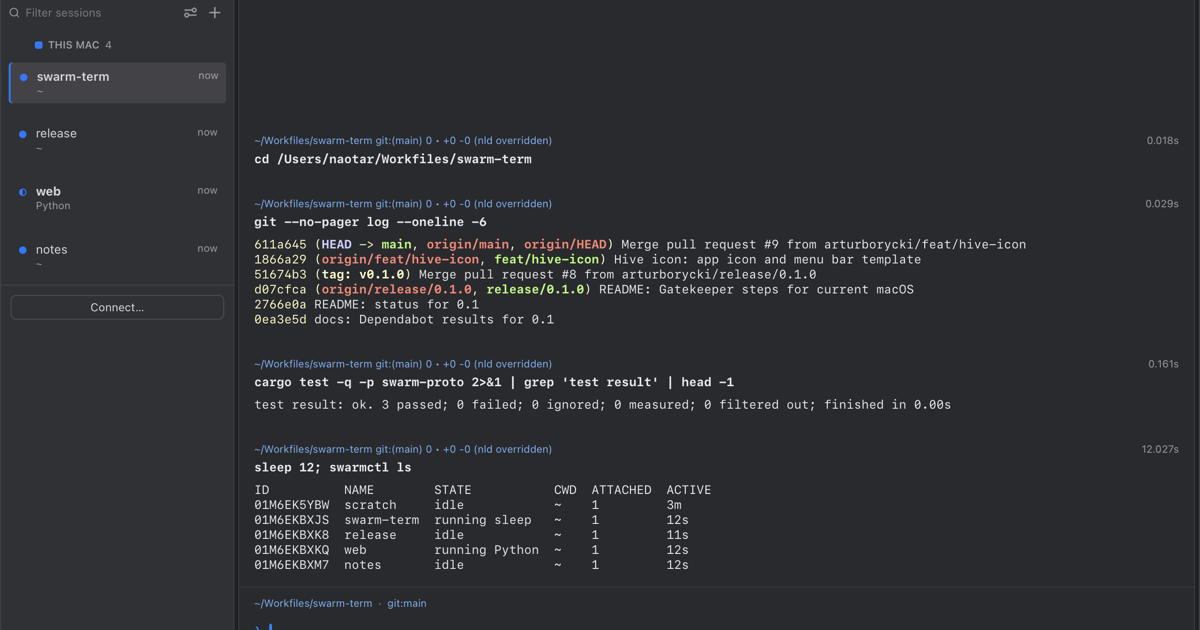
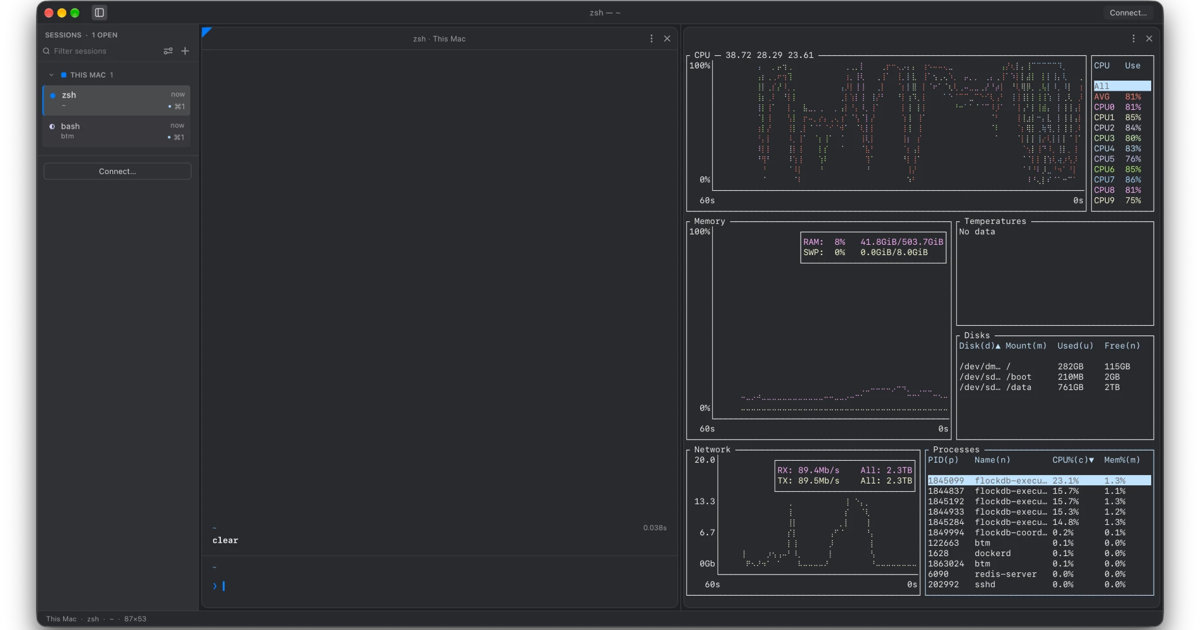
Site: screenshots of splits and Claude Code, new share image
The split screenshot's remote host name and the 'Also attached' line are
covered.

diff --git a/README.md b/README.md
@@ -6,7 +6,7 @@ over SSH. Close the window, quit the app, lose Wi-Fi or update Swarm: your
 shells, builds and servers keep running, and the tabs reattach with their
 output.
 
-![Swarm: a sidebar of sessions beside a terminal showing git log, a passing cargo test and swarmctl ls](site/src/assets/hero.png)
+![Swarm: a local zsh session beside a session on a Linux server running btm, in one split window](site/src/assets/shots/01-splits.png)
 
 **Download:** [swarm-term.com](https://swarm-term.com) or
 [Releases](https://github.com/arturborycki/swarm-term/releases). macOS 13
